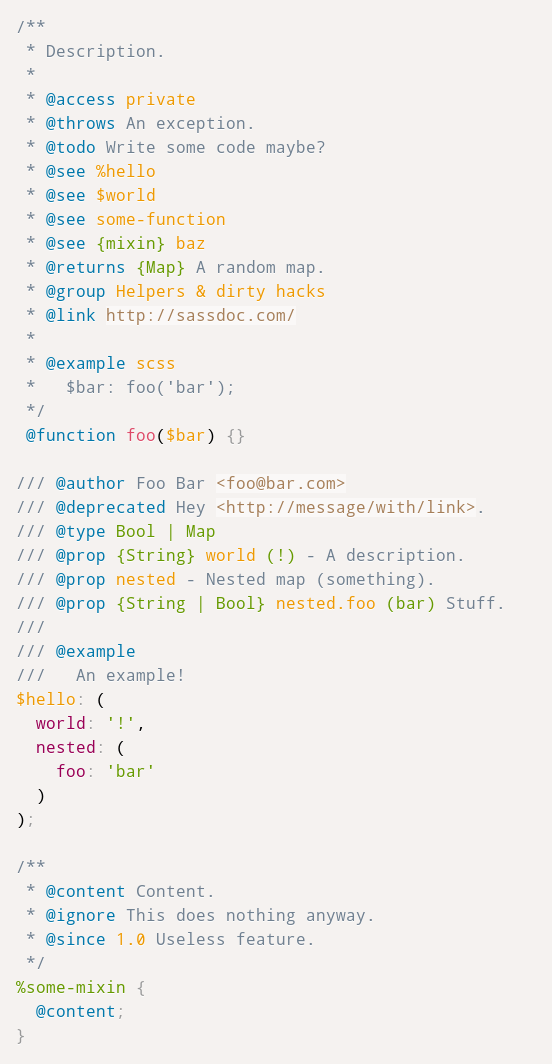
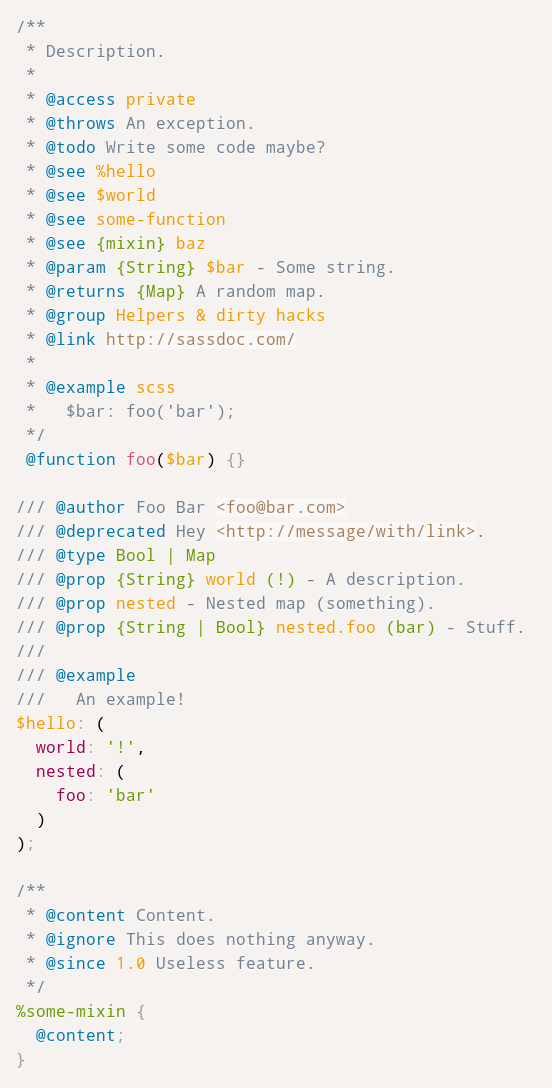
Update example

diff --git a/example.html b/example.html
@@ -21,6 +21,7 @@
  * @see $world
  * @see some-function
  * @see {mixin} baz
+ * @param {String} $bar - Some string.
  * @returns {Map} A random map.
  * @group Helpers &amp; dirty hacks
  * @link http://sassdoc.com/
@@ -35,7 +36,7 @@
 /// @type Bool | Map
 /// @prop {String} world (!) - A description.
 /// @prop nested - Nested map (something).
-/// @prop {String | Bool} nested.foo (bar) Stuff.
+/// @prop {String | Bool} nested.foo (bar) - Stuff.
 ///
 /// @example
 ///   An example!
